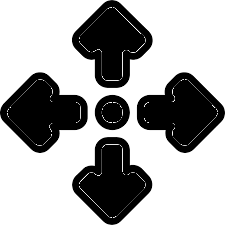
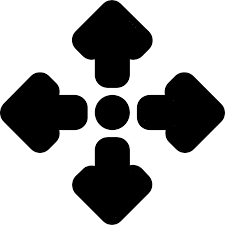
se termina la base de las flechas y el primer joystick de movimiento, proceso a realizaer la pantalla.

diff --git a/css/style.css b/css/style.css
@@ -21,8 +21,8 @@
         justify-content: center;      
 }
 .anbernic{
-    height: 18em;
-    width: 37em;
+    height: 16em;
+    width: 34em;
     background-color: grey;
     border-radius: 3em;
     box-shadow: inset 0 0 0.5em 0.5em rgb(98, 94, 94);
@@ -34,6 +34,7 @@
 .joystick1 {
     height: 18em;
     width: 4em;
+   
 
 }
 
@@ -50,33 +51,59 @@
 }
 .selectbutton{
     margin-left: 5.1em;
-    height: 0.60em;
-    width: 0.60em;
+    margin-top: -0.3em;
+    height: 0.75em;
+    width: 0.75em;
     border-radius: 50%;
     background-color: black;
 }
 
 .arrow1 {
-    margin-left: 3.2em;
-    margin-top: 1.5em;
-    height: 4.3em;
-    width: 1.7em;
-    background-color: black;
+    margin-left: 3.3em;
+    margin-top: 1em;
+    height: 4.5em;
+    width: 1.5em;
+    background-color: rgb(54, 45, 45);
     border-radius: 0.5em;
 
 }
 
 .arrow2 {
-    margin-left: 2.1em;
+    margin-left: 1.8em;
     margin-top: -3em;
-    height: 1.7em;
-    width: 4em;
-    background-color: black;
+    height: 1.5em;
+    width: 4.5em;
+    background-color: rgb(54, 45, 45);
     border-radius: 0.5em;
+    display: flex;
+    
 
 }
 
-.joyjoy1{
+.joy1{
+    height: 3.7em;
+    width: 3.7em;
+    border-radius: 50%;
+    background-color: rgb(79, 76, 76);
+    margin-top: 2.6em;
+    margin-left: 2.2em;
+    display: flex;
+    justify-content: center;
+    align-items: center;
+   
+
+
+}
+
+.joy2{
     
+    height: 2.7em;
+    width: 2.7em;
+    border-radius: 50%;
+    background-color: rgb(16, 4, 4);
+
+    
+    
+
 }
 

diff --git a/index.html b/index.html
@@ -17,7 +17,9 @@
                     <div class="selectbutton"></div>
                     <div class="arrow1"></div>
                     <div class="arrow2"></div>
-                    <div class="joyjoy1"></div>
+                    <div class="joy1">
+                    <div class="joy2"></div></div>
+                    
                     
 
                           
